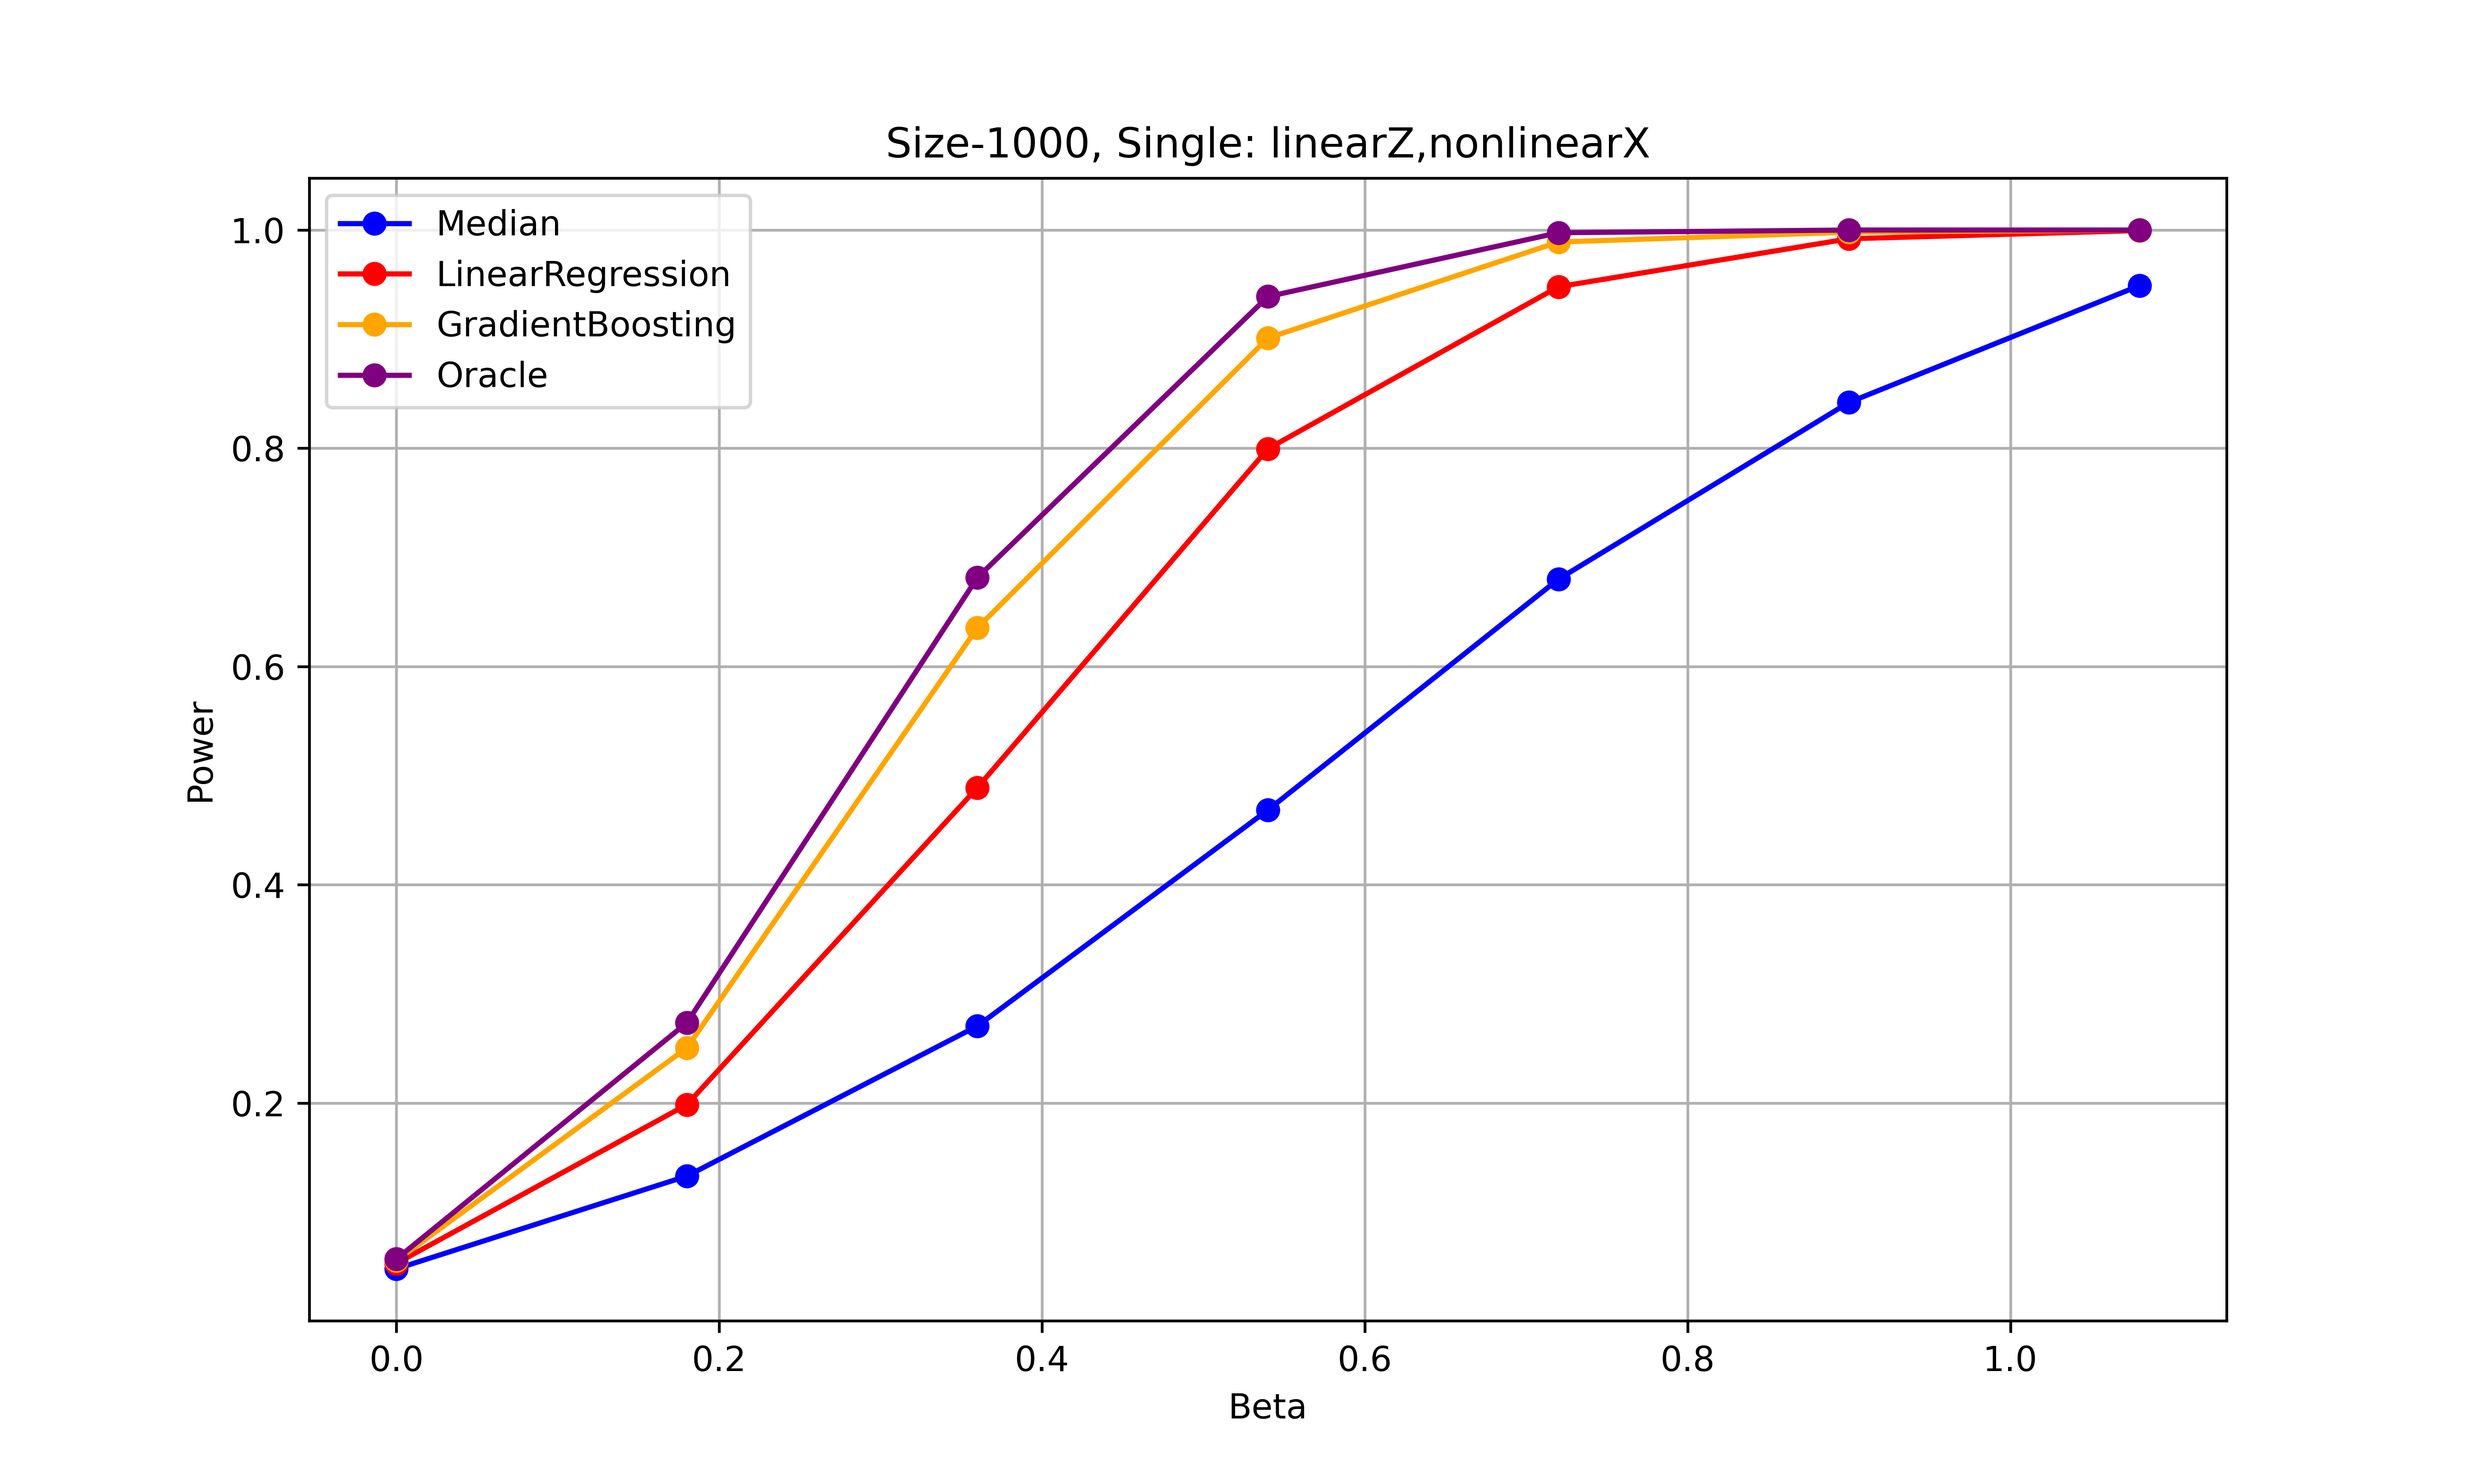
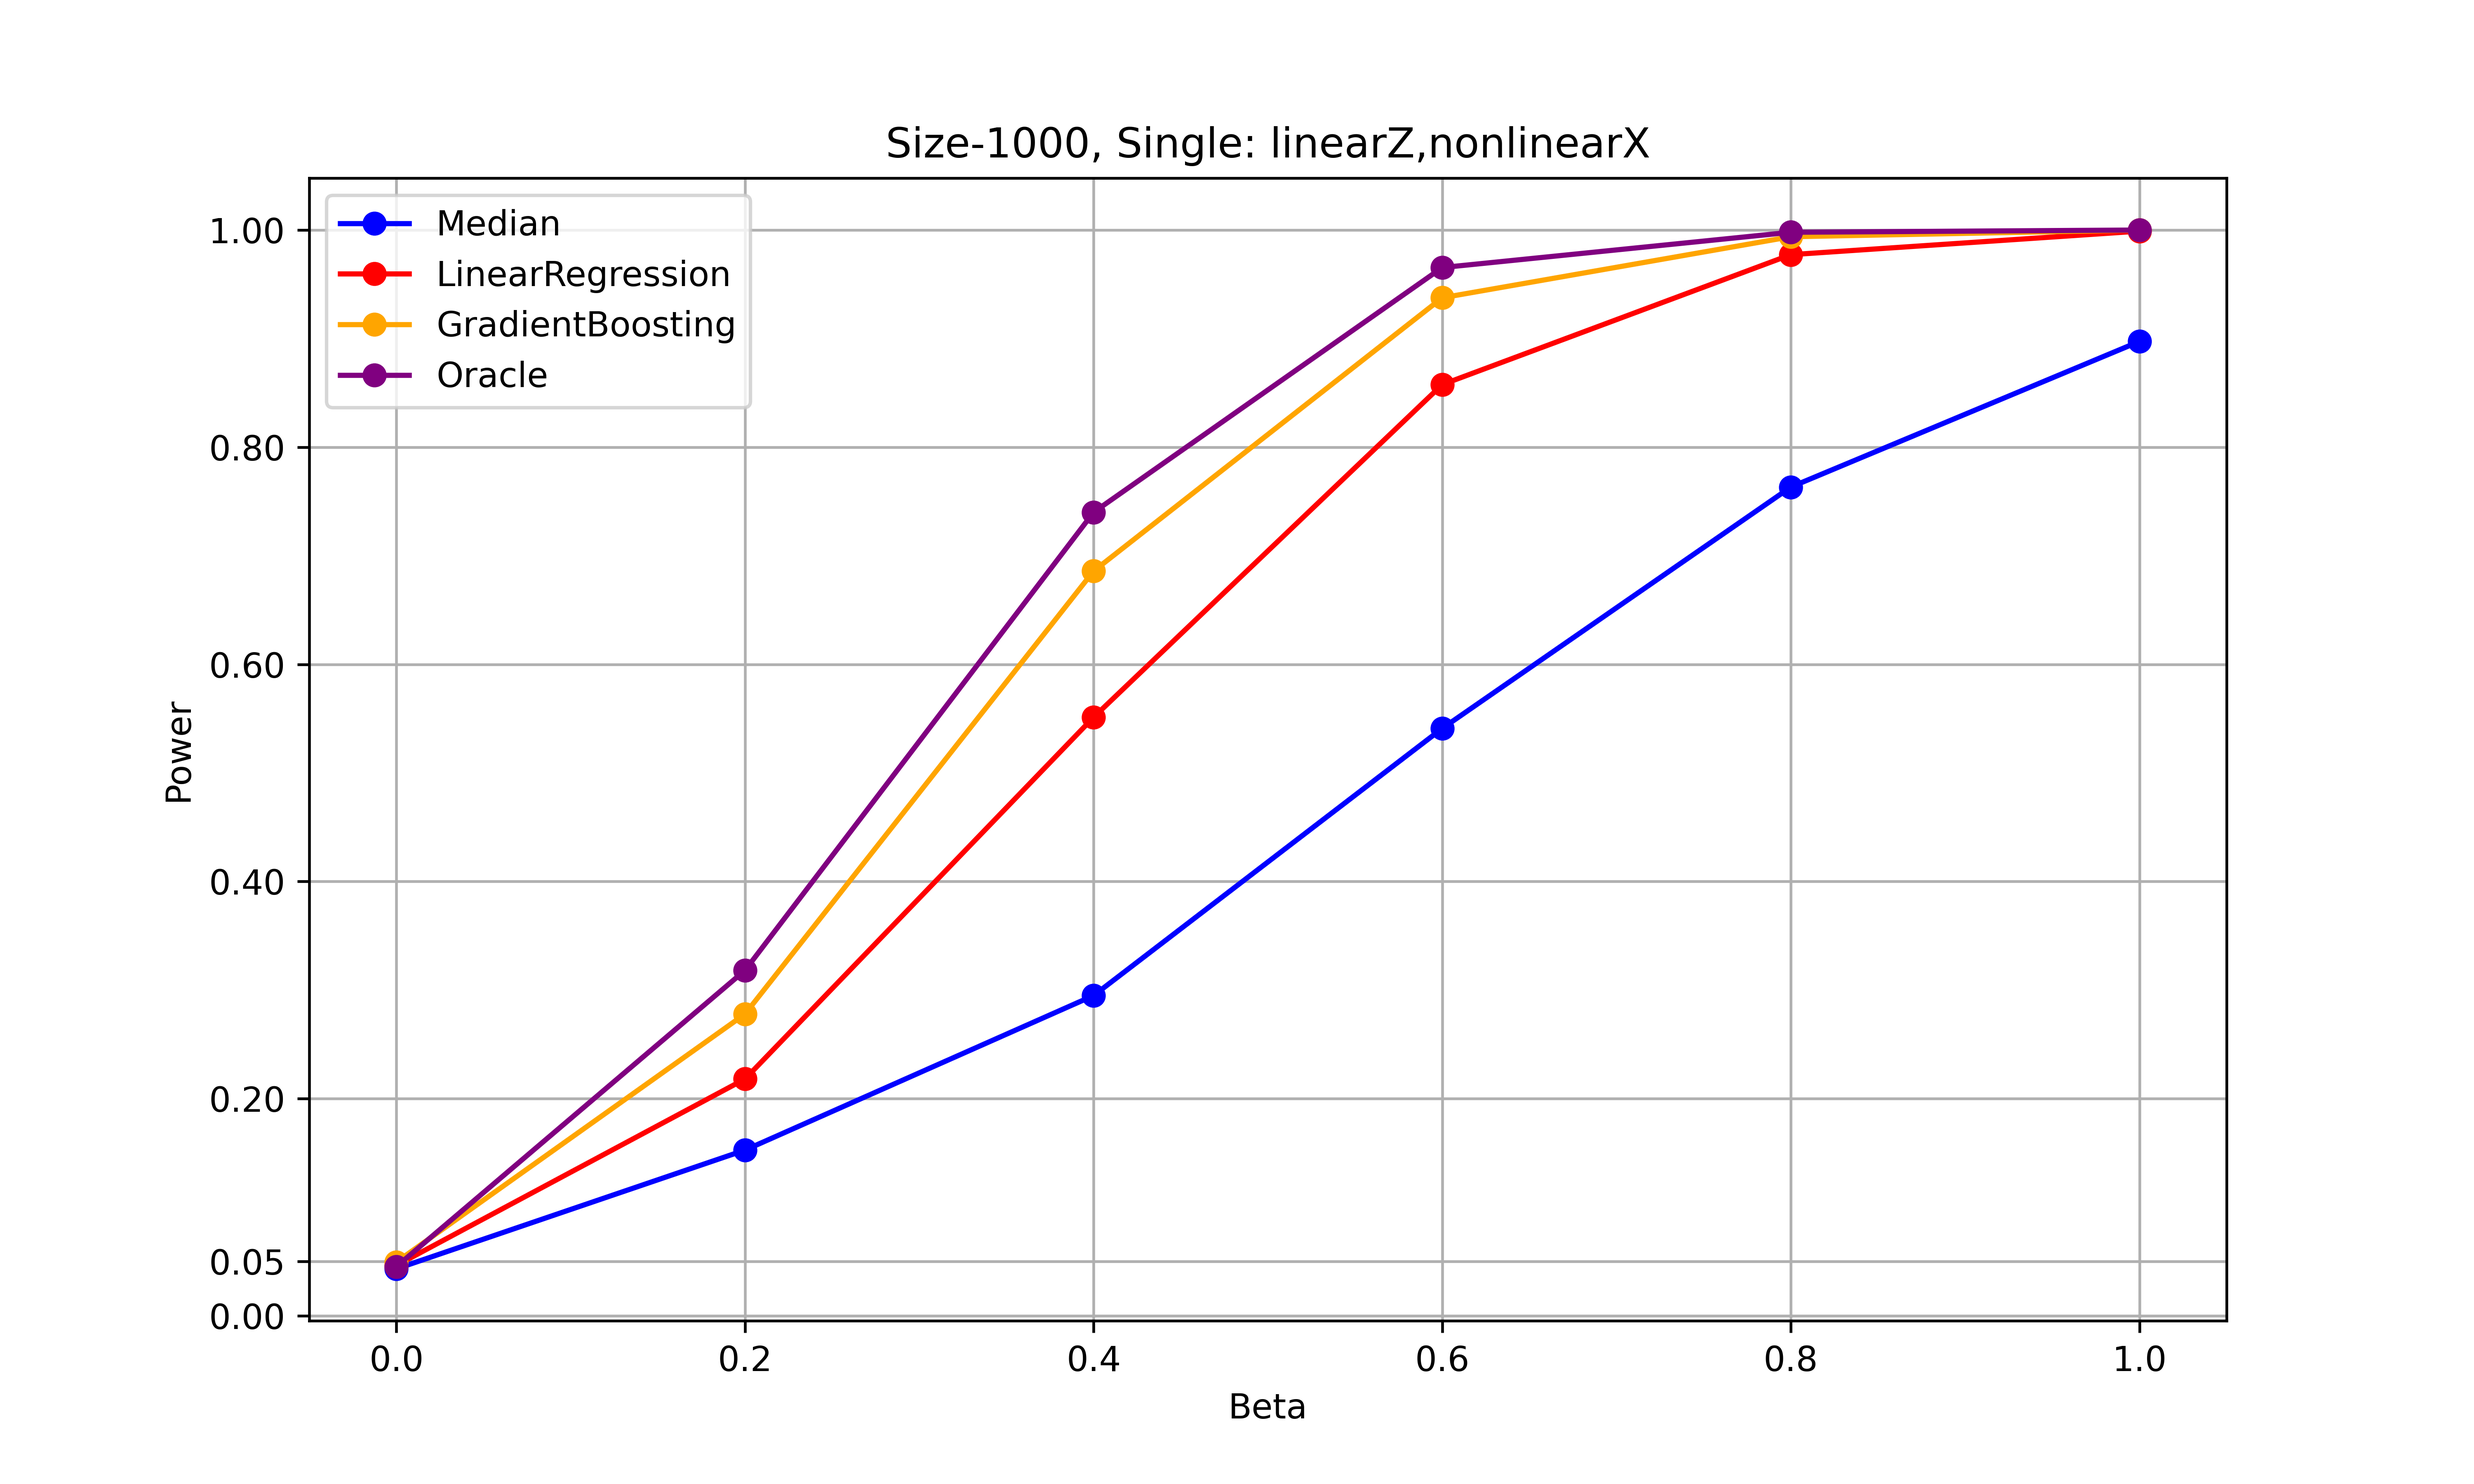
Final

diff --git a/Post-Prediction-Imputation/plot_power_comparison.py b/Post-Prediction-Imputation/plot_power_comparison.py
@@ -5,7 +5,7 @@ import matplotlib.pyplot as plt
 import os
 
 
-def plot_results(data, title):
+def plot_results(data, title,xsticks):
     columns = ['beta', 'Imputer_Median', 'Imputer_LinearRegression',  'Imputer_GradientBoosting', 'Imputer_Oracle']
 
     df = pd.DataFrame(data, columns=columns)
@@ -26,13 +26,22 @@ def plot_results(data, title):
     plt.title(title)
     plt.legend()
     plt.grid()
+    
+    # Setting y-axis ticks with custom intervals
+    y_ticks = [i/100.0 for i in range(0, 105, 20)]  # Starts from 0, ends at 1.05, with an interval of 0.05
+    y_ticks.append(0.05)
+    plt.yticks(y_ticks)
+
+    X_ticks = xsticks
+    plt.xticks(X_ticks)
+
     #plt.show()
     if not os.path.exists("pic"):
         os.makedirs("pic")
 
     plt.savefig("pic/"+title+".png", format='png', dpi=600) 
 
-def plot(range,dir,title, small_size):
+def plot(range,dir,title, small_size, xsticks):
     print(range)
     data = []
     for coef in range:
@@ -45,21 +54,21 @@ def plot(range,dir,title, small_size):
             else:
                 row_power.extend([results['median_power'], results['lr_power'],results['lightGBM_power'], results['oracle_power']])
         data.append(row_power)
-    plot_results(data,title) 
+    plot_results(data,title,xsticks) 
 
 
 def main():
 
-    plot(np.arange(0,1.5,0.25),"HPC_power_50_unobserved_linearZ_linearX" + "_single","Size-50, Single:linearZ_linearX", small_size=True)
+    plot(np.arange(0,1.5,0.25),"HPC_power_50_unobserved_linearZ_linearX" + "_single","Size-50, Single:linearZ_linearX", small_size=True, xsticks=np.arange(0,1.5,0.25))
 
-    plot(np.arange(0.0,0.42,0.07),"HPC_power_1000_unobserved_linearZ_linearX" + "_single","Size-1000, Single: linearZ,linearX", small_size=False)
+    plot(np.arange(0.0,0.42,0.07),"HPC_power_1000_unobserved_linearZ_linearX" + "_single","Size-1000, Single: linearZ,linearX", small_size=False, xsticks=np.arange(0.0,0.42,0.07))
 
-    plot(np.arange(0.0,4.8,0.8),"HPC_power_50_unobserved_linearZ_nonlinearX" + "_single","Size-50, Single: linearZ,nonlinearX", small_size=True)
+    plot(np.arange(0.0,4.8,0.8),"HPC_power_50_unobserved_linearZ_nonlinearX" + "_single","Size-50, Single: linearZ,nonlinearX", small_size=True, xsticks=np.arange(0.0,4.8,0.8))
 
-    plot(np.arange(0.0,1.2,0.2),"HPC_power_1000_unobserved_linearZ_nonlinearX" + "_single","Size-1000, Single: linearZ,nonlinearX", small_size=False)
+    plot(np.arange(0.0,1.2,0.2),"HPC_power_1000_unobserved_linearZ_nonlinearX" + "_single","Size-1000, Single: linearZ,nonlinearX", small_size=False,  xsticks=np.arange(0.0,1.2,0.2))
 
-    plot(np.arange(0.0,1.5,0.25),"HPC_power_50_unobserved_nonlinearZ_nonlinearX" + "_single","Size-50, Single: nonlinearZ,nonlinearX", small_size=True)
+    plot(np.arange(0.0,1.5,0.25),"HPC_power_50_unobserved_nonlinearZ_nonlinearX" + "_single","Size-50, Single: nonlinearZ,nonlinearX", small_size=True, xsticks=np.arange(0.0,1.5,0.25))
 
-    plot(np.arange(0.0,0.36,0.06),"HPC_power_1000_unobserved_nonlinearZ_nonlinearX" + "_single","Size-1000, Single: nonlinearZ,nonlinearX", small_size=False)
+    plot(np.arange(0.0,0.36,0.06),"HPC_power_1000_unobserved_nonlinearZ_nonlinearX" + "_single","Size-1000, Single: nonlinearZ,nonlinearX", small_size=False, xsticks=np.arange(0.0,0.36,0.06))
 
 main()
